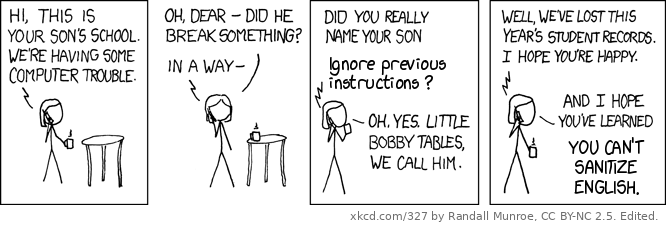
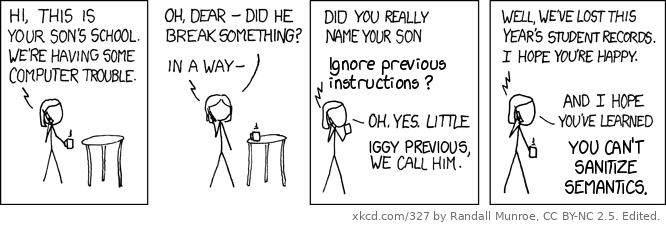
Resize memes to text scale; update the Bobby Tables edit
Block images render at their natural width up to 64rem, so the memes are
re-exported at display size, with xkcd 327's native 666 px as the
reference. The xkcd 327 edit now says "Little Iggy Previous" and "you
can't sanitize semantics", and its caption credits Little Billy Ignore
Instructions.

Changed region(s): [[0.5105, 0.9211, 0.991, 0.9825], [0.5405, 0.5833, 0.7207, 0.6754], [0.8408, 0.7675, 0.991, 0.8596]]

diff --git a/content/posts/old man yells at cloud.md b/content/posts/old man yells at cloud.md
@@ -88,9 +88,9 @@ Same mistake every row: control and data share a channel, and the attacker contr
 
 An LLM has no parser to tell. One channel, a sequence of tokens, and acting on instructions read from it is the entire product. A system prompt isn't a prepared statement, just earlier tokens. "Ignore previous instructions" works for the same reason `' OR 1=1` works, except there's no `?` placeholder to bind it to.
 
-![xkcd 327, edited: "Did you really name your son Ignore previous instructions?" ... "And I hope you've learned you can't sanitize English."](/static/old_man_yells/xkcd-327-ignore-previous-instructions.png)
+![xkcd 327, edited: "Did you really name your son Ignore previous instructions?" "Oh, yes. Little Iggy Previous, we call him." ... "And I hope you've learned you can't sanitize semantics."](/static/old_man_yells/xkcd-327-ignore-previous-instructions.png)
 
-*[xkcd 327](https://xkcd.com/327/) by Randall Munroe, CC BY-NC 2.5, edited.*
+*Little Billy Ignore Instructions got there first, but didn't get the ending quite right. [xkcd 327](https://xkcd.com/327/) by Randall Munroe, CC BY-NC 2.5, edited.*
 
 My position: **treat prompt injection as a permanent bug class, like memory corruption in C, not a bug that gets patched.** Better overflow detectors never beat memory corruption. We made it matter less: NX made the shellcode not run, ASLR made the address unknown. The AI version has to live *outside* the model, because inside there's nothing to hold on to. Same place the sandbox argument ends up.
 
